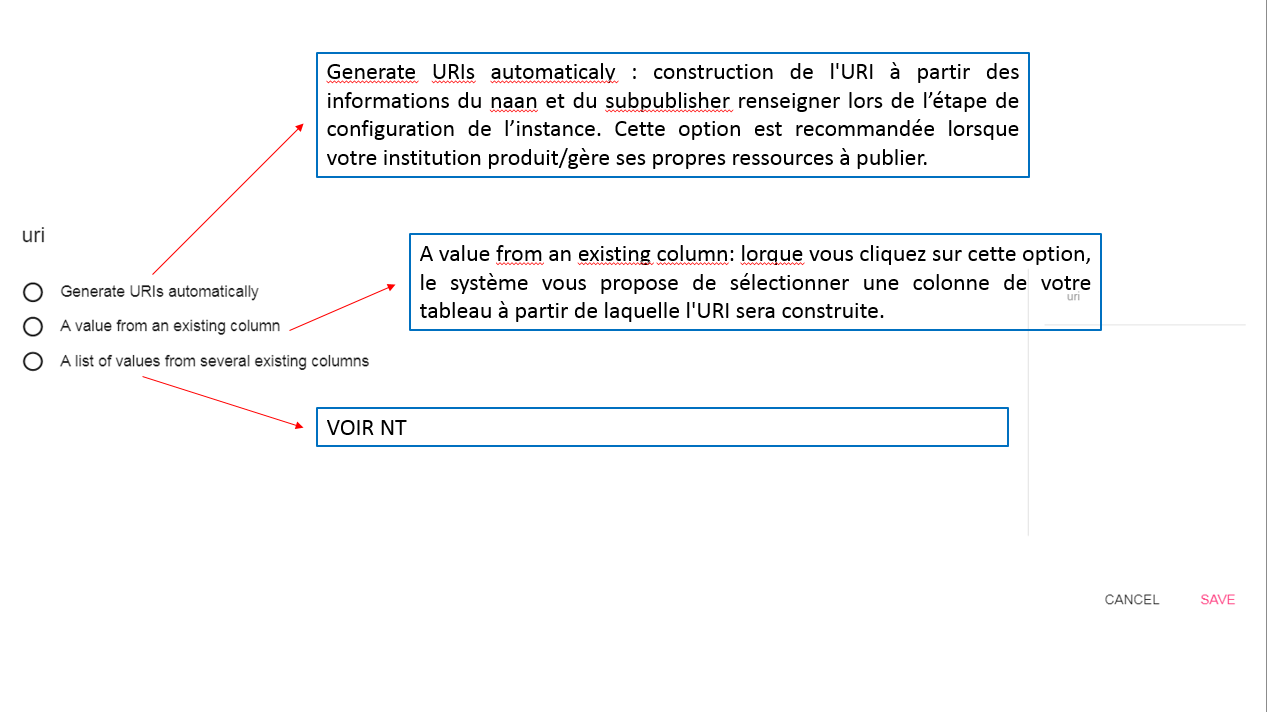
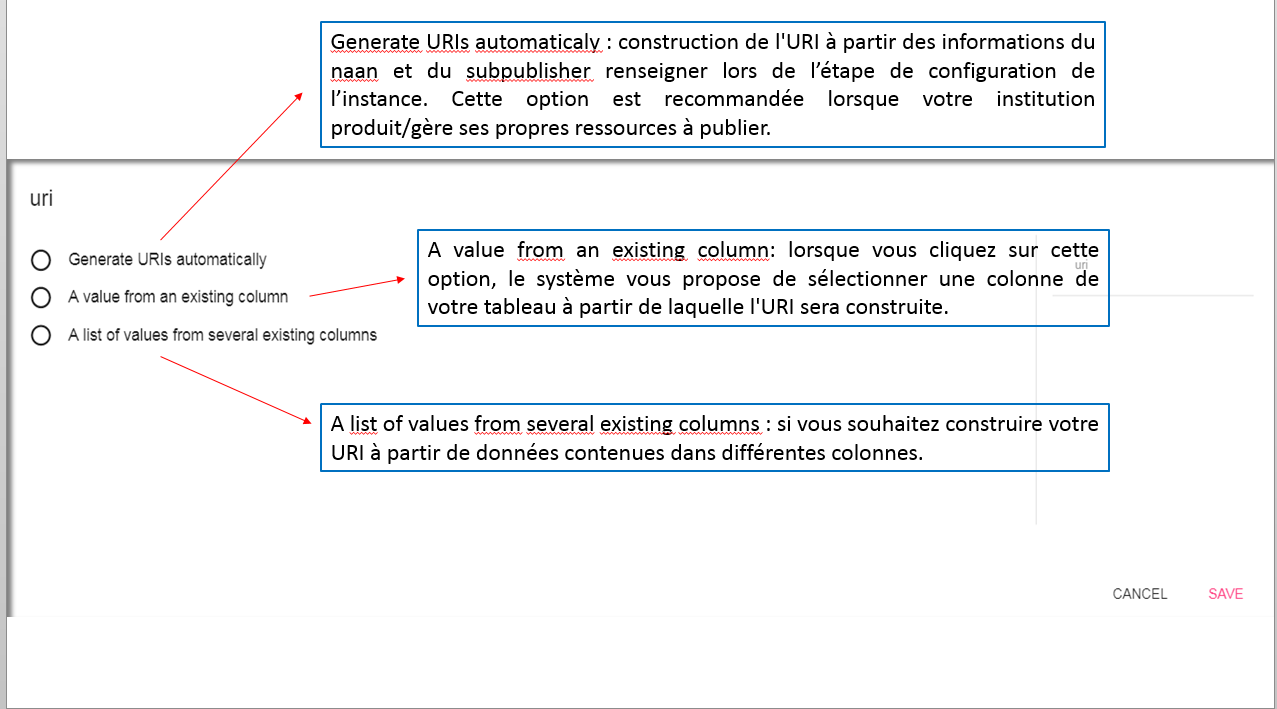
Creates assets/paramétrage1.png
Auto commit by GitBook Editor

diff --git a/SUMMARY.md b/SUMMARY.md
@@ -1,4 +1,4 @@
-# Table des matières
+# Summary
 
 * [Introduction](README.md)
 * [Installation](/Installation/README.md)
@@ -12,39 +12,27 @@
   * [routines](/Configuration/routines/README.md)
   * [exporters](/Configuration/exporters/README.md)
 * [Administration](/Administration/README.md)
-
   * [login](/Administration/Login/README.md)
   * [modèle](/Administration/Modèle/README.md)
-
     * [export](/Administration/Modèle/Export/README.md)
     * [format](/Administration/Modèle/Format/README.md)
-
       * [Bubble Chart](/Administration/Modèle/Format/BubbleChart.md)
       * [Cartography](/Administration/Modèle/Format/Cartography.md)
       * [Code](/Administration/Modèle/Format/Code.md)
-
       * [Distribution Charts](/Administration/Modèle/Format/Distribution Charts/README.md)
-
         * [Bar Chart](/Administration/Modèle/Format/Distribution Charts/BarChart.md)
-
         * [Pie Chart](/Administration/Modèle/Format/Distribution Charts/PieChart.md)
-
         * [Radar Chart](/Administration/Modèle/Format/Distribution Charts/RadarChart.md)
-
       * [Email](/Administration/Modèle/Format/Email.md)
-
       * [Emphased Number](/Administration/Modèle/Format/EmphasedNumber.md)
-
       * [Heat Map](/Administration/Modèle/Format/HeatMap.md)
-
       * [HTML](/Administration/Modèle/Format/Html.md)
-
       * [Identifier Badge](/Administration/Modèle/Format/IdentifierBadge.md)
       * [Image URL](/Administration/Modèle/Format/Image.md)
       * [ISTEX Query](/Administration/Modèle/Format/Istex.md)
       * [External URL](/Administration/Modèle/Format/Link.md)
       * [Link Image](/Administration/Modèle/Format/LinkImage.md)
-      * [List content](/Administration/Modèle/Format/List.md) \(Array\)
+      * [List content](/Administration/Modèle/Format/List.md)
       * [Resource](/Administration/Modèle/Format/LodexResource.md)
       * [MarkDown](/Administration/Modèle/Format/MarkDown.md)
       * [Network](/Administration/Modèle/Format/Network.md)
@@ -55,11 +43,8 @@
       * [Title](/Administration/Modèle/Format/Title.md)
       * [Trello Timeline](/Administration/Modèle/Format/TrelloTimeLine.md)
       * [Internal URI](/Administration/Modèle/Format/Uri.md)
-
     * [import](/Administration/Modèle/Import/README.md)
-
     * [routine](/Administration/Modèle/Routine/README.md)
-
     * [sémantique](/Administration/Modèle/Sémantique/README.md)
     * [transformers](/Administration/Modèle/Transformers/README.md)
       * [AUTOGENERATE\_URI](/Administration/Modèle/Transformers/AUTOGENERATE_URI.md)
@@ -80,22 +65,12 @@
       * [TRUNCATE](/Administration/Modèle/Transformers/TRUNCATE.md)
       * [UNIQ](/Administration/Modèle/Transformers/UNIQ.md)
       * [UPPERCASE](/Administration/Modèle/Transformers/UPPERCASE.md)
-
   * [modération](/Administration/Modération/README.md)
-
-* Processus de publication
-
+* [Processus de publication](processus-de-publication.md)
   * [Chargement du jeu de données](/Processus publication/Chargement du jeu de données/README.md)
-
   * [Création URI](/Processus publication/Création URI/README.md)
-
-  * Paramétrage
-
+  * [Paramétrage](Processus publication/Chargement du jeu de données/parametrage.md)
     * [Stylage des colonnes](/Processus publication/Paramétrage/stylage des colonnes/README.md)
-
 * [Personnalisation du thème](/Thème/README.md)
-
 * [Contribution](/contribution.md)
-
-
 

diff --git a/Processus publication/Chargement du jeu de données/README.md b/Processus publication/Chargement du jeu de données/README.md
@@ -10,5 +10,9 @@ Naviguez dans votre explorateur pour sélectionner le fichier à charger, puis c
 
 Le système vous propose cet écran :![](/assets/écranchargementdonnées4.png)
 
-Que lire sur cet écran :![](/assets/écranchargementdonnées5.png)Les trois actions permises à l'aide du **bouton + : **![](/assets/écranchargementdonnées6.png)
+Que lire sur cet écran :
+
+![](/assets/écranchargementdonnées5.png)
+
+Les trois actions permises à l'aide du **bouton + : **![](/assets/écranchargementdonnées6.png)
 

diff --git a/Processus publication/Création URI/README.md b/Processus publication/Création URI/README.md
@@ -6,11 +6,9 @@ Pour cela, il vous suffit de cliquer sur le bouton "URI" précédemment cité.
 
 Le système vous propose trois possibilités :
 
-![](/assets/creationuri.png)Après sélection d'un des choix, cliquez sur le **bouton SAVE.**
+![](/assets/créationuri.png)
+
+Après sélection d'un des choix, cliquez sur le **bouton SAVE.**
 
 L'étape suivante consiste à paramétrer/styler les colonnes de votre tableau.
-
-
-
-
 

diff --git a/Processus publication/Paramétage - Stylage des colonnes/README.md b/Processus publication/Paramétage - Stylage des colonnes/README.md
@@ -1,0 +1,4 @@
+# Le paramétrage/stylage des colonnes
+
+Pour ce faire, vous devez activez le bouton "**+**" précédemment décrit. Le système se met en mode paramétrage/stylage . Le bouton "**ADD TO PUBLICATION**" apparaît pour chacune des colonnes à traiter.![](/assets/paramétrage1.png)
+
